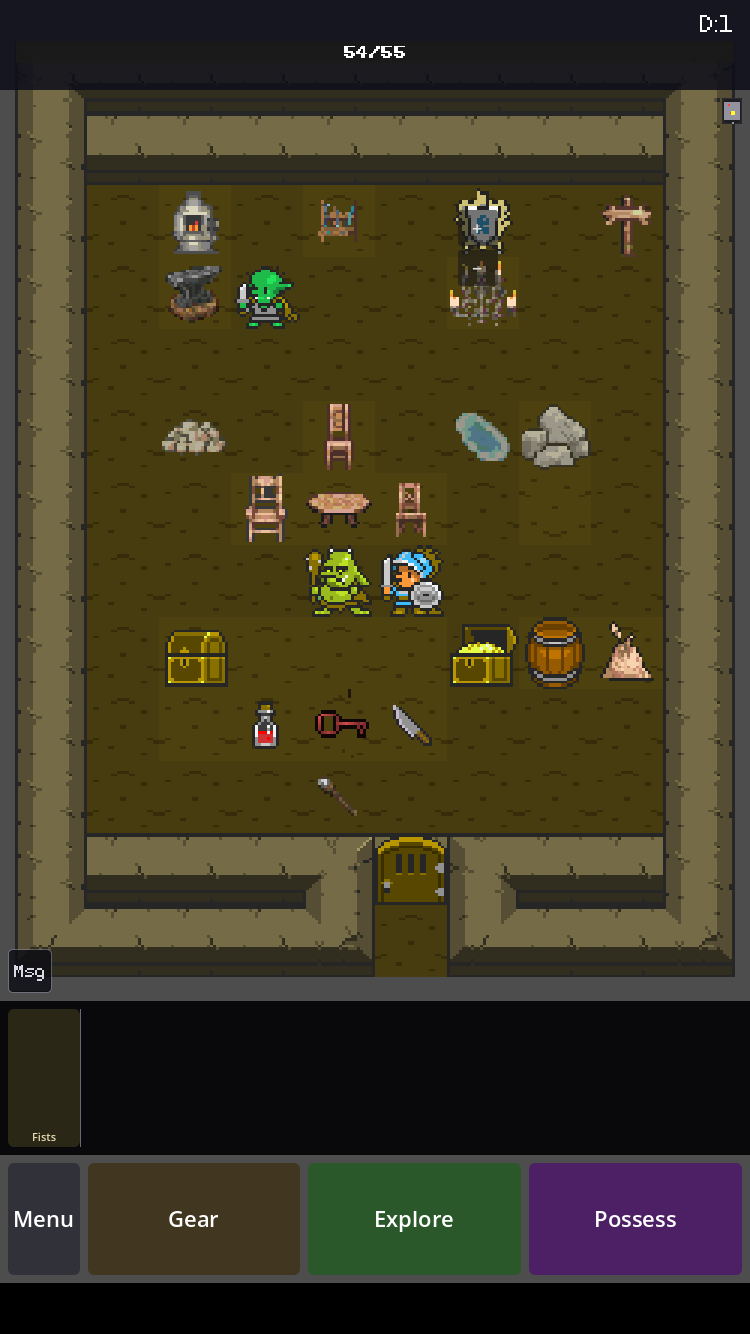
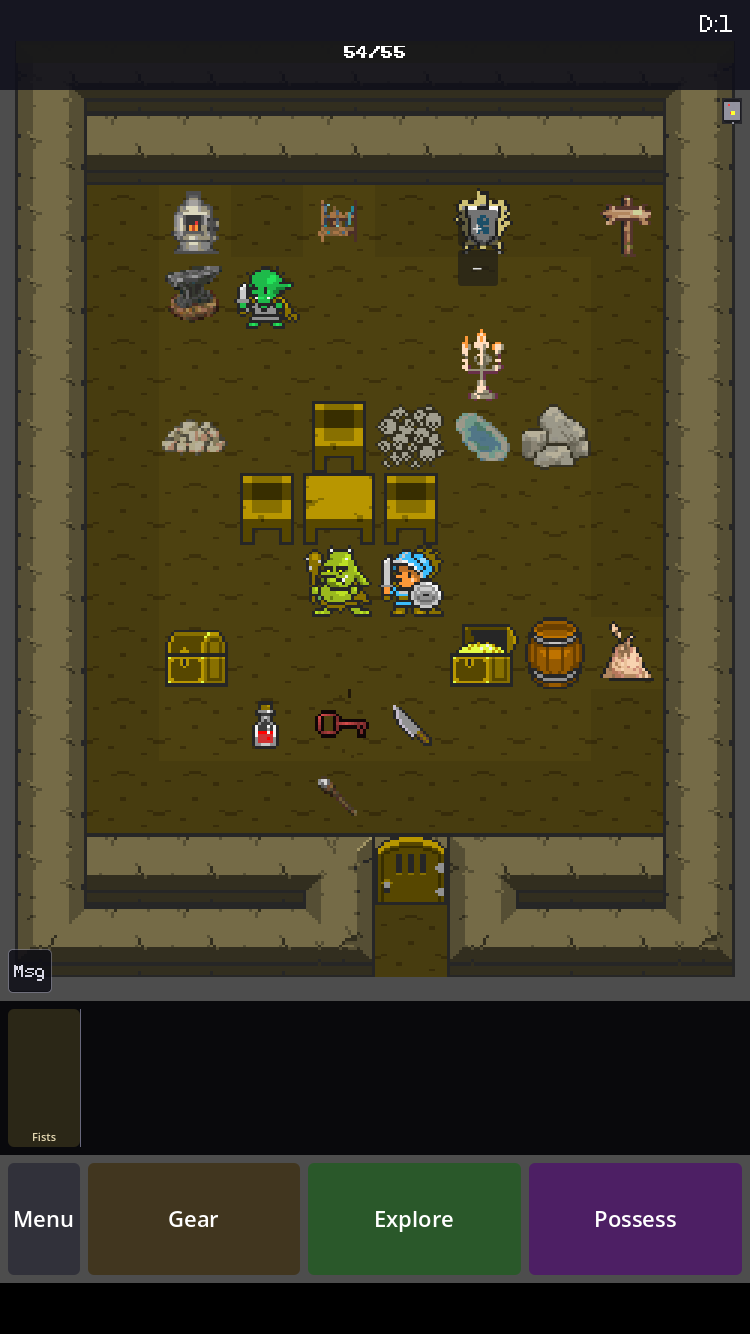
feat(art): Part A — canon furniture substitution (register correction, play review 2026-08)
Play review ruled the style register: Shattered-Pixel/Oryx school — chunky, low-detail, bold-read.
The generated-art failure mode is REFINEMENT (too fine), which Part A lint doesn't catch. This
lands the known furniture cases by canon substitution.

Landed (pixel-match verified, all lint PASS):
- Chairs 5051/5056/5057 ← canon world tile 321 (canon repetition IS the convention). Gate-rejection
  notes closed "resolved: canon substitution". route=canon_substitution.
- Table 5053 ← canon world tile 319. Deferred table gate verdict closed the same way.
- Acceptance scene table tile pinned 5052→5053 so the canon table shows in-frame beside the canon
  chairs (register now coherent); test updated. 5052/5054/5055 stay generated → Part B sweep.

Armor stand (5002) — derived, NOT landed (pending Rafe review):
- Rebuilt from canon weapon-stand 323's actual frame (posts/crossbar/rack/legs) with the sword
  removed and a simple chunky helm+cuirass mounted, colours strictly from 323's master-palette
  ramp. Script: tools/art_lint/derive_armor_stand.py. Candidate lints PASS (6 colours, A6 0.98) at
  tools/art_lint/candidates/burndown3/armor_stand_derived/. NO canon pixels fed to any generator.
- Manifest: accepted-as-is REVOKED, route=canon_derived, pending_review_note set; live 5002 pixels
  UNCHANGED pending your review of the derived result.

New-concept wiring: docs/furniture_wiring_proposal.md (for issue #51). Key finding: 317/318 (book-
[…]

Changed region(s): [[0.3067, 0.2766, 0.5827, 0.4303], [0.5827, 0.1844, 0.7053, 0.3073]]

diff --git a/tools/art_lint/derive_armor_stand.py b/tools/art_lint/derive_armor_stand.py
@@ -1,0 +1,104 @@
+#!/usr/bin/env python3
+"""Derive an armor_stand (5002 replacement) from canon weapon-stand 323's construction.
+
+Register ruling (play review 2026-08): chunky, low-detail, bold-read — the opposite of the
+current 5002 (a noisy, over-rivetted cuirass). This takes 323's ACTUAL post/crossbar/leg/rack
+pixels (the stand frame), removes the mounted sword, and mounts a simple helm + cuirass in the
+same register, using only colours already present in 323 (all master-palette members, canon-
+derived). No canon pixels are ever sent to any generator — this is local pixel composition of art
+already licensed in this game.
+
+Colours borrowed from 323: A dark outline, B wood, C/D/E/F greys. Metal = the C/D/E ramp.
+"""
+import os
+import sys
+
+from PIL import Image
+
+REPO = os.path.dirname(os.path.dirname(os.path.dirname(os.path.abspath(__file__))))
+os.chdir(REPO)
+sys.path.insert(0, os.path.join(REPO, "tools/art_lint"))
+import art_lint
+
+W = "src/Presentation/assets/sprites_16bf/world_24x24"
+
+# Colours read out of canon 323 (all confirmed master-palette members).
+A = (38, 38, 38)      # dark outline
+B = (87, 71, 0)       # wood
+C = (71, 71, 71)      # metal shadow
+D = (145, 145, 145)   # metal mid
+E = (201, 201, 201)   # metal highlight
+
+TRANSPARENT = (0, 0, 0, 0)
+
+
+def main():
+    im = Image.open(f"{W}/oryx_16bit_fantasy_world_323.png").convert("RGBA")
+    px = im.load()
+
+    # ── 1. Strip the sword ────────────────────────────────────────────────
+    # Hilt + guard + upper blade (rows 0-6, centre cols 8-15) and the blade tip that runs
+    # down the centre through the frame (row 12 cols 11-12; rows 16-20 cols 9-13).
+    for y in range(0, 7):
+        for x in range(8, 16):
+            px[x, y] = TRANSPARENT
+    for x in range(11, 13):
+        px[x, 12] = TRANSPARENT
+    for y in range(16, 21):
+        for x in range(9, 14):
+            px[x, y] = TRANSPARENT
+    for x in range(10, 12):        # row-21 sword-base remnant between the legs
+        px[x, 21] = TRANSPARENT
+    # Heal the rack where the sword passed through it (row 7 centre outline, row 8 centre surface).
+    for x in range(11, 13):
+        px[x, 7] = (*A, 255)
+    for x in range(10, 14):
+        px[x, 8] = (*D, 255)
+
+    # ── 2. Mount the helm (great-helm dome) above the rack, where the hilt was ─────
+    def put(x, y, col):
+        if 0 <= x < 24 and 0 <= y < 24:
+            px[x, y] = (*col, 255)
+
+    helm = {
+        1: [(10, A), (11, A), (12, A), (13, A)],
+        2: [(9, A), (10, D), (11, E), (12, E), (13, D), (14, A)],
+        3: [(9, A), (10, D), (11, E), (12, E), (13, D), (14, A)],
+        4: [(9, A), (10, A), (11, A), (12, A), (13, A), (14, A)],   # visor slit (dark band)
+        5: [(9, A), (10, D), (11, D), (12, D), (13, D), (14, A)],
+        6: [(10, A), (11, C), (12, C), (13, A)],                    # neck
+    }
+    for y, cells in helm.items():
+        for x, col in cells:
+            put(x, y, col)
+
+    # ── 3. Mount the cuirass (breastplate) below the rack, over the wooden crossbar ─
+    # Hangs from the rack centre (rows 9-16). Chunky trapezoid, single centre ridge, thick
+    # outline. Sits in front of the frame; the legs/feet remain visible either side.
+    cuirass = {
+        9:  [(9, A), (10, A), (11, A), (12, A), (13, A), (14, A)],           # shoulders top
+        10: [(8, A), (9, D), (10, E), (11, E), (12, E), (13, E), (14, D), (15, A)],
+        11: [(8, A), (9, D), (10, E), (11, D), (12, D), (13, E), (14, D), (15, A)],  # centre ridge
+        12: [(8, A), (9, C), (10, D), (11, D), (12, D), (13, D), (14, C), (15, A)],
+        13: [(9, A), (10, D), (11, D), (12, D), (13, D), (14, A)],
+        14: [(9, A), (10, C), (11, D), (12, D), (13, C), (14, A)],
+        15: [(10, A), (11, C), (12, C), (13, A)],                            # waist
+    }
+    for y, cells in cuirass.items():
+        for x, col in cells:
+            put(x, y, col)
+
+    out = f"tools/art_lint/candidates/burndown3/armor_stand_derived/armor_stand_5002_derived.png"
+    os.makedirs(os.path.dirname(out), exist_ok=True)
+    im.save(out)
+
+    ps = art_lint.load_palette("config/art/oryx_master_palette.json")
+    l = art_lint.lint_file(out, "prop", ps)
+    print(f"derived -> {out}")
+    print(f"  lint {l['overall']}  A1={l['A1']}(off={l['A1_off_palette_colors']}) "
+          f"A2={l['A2']} A3={l['A3']} A4={l['A4_color_count']}/{l['A4']} "
+          f"A5={l['A5']} A6={l['A6_outline_fraction']}/{l['A6']}")
+
+
+if __name__ == "__main__":
+    main()

diff --git a/src/Logic/Core/ArtAcceptanceSceneBuilder.cs b/src/Logic/Core/ArtAcceptanceSceneBuilder.cs
@@ -177,7 +177,11 @@ public static class ArtAcceptanceSceneBuilder
             new("candelabra", X: 6, Y: 4, FootprintW: 1, FootprintH: 1, BlocksMovement: true,  TileId: 5080),
 
             // Center table + chairs — §3 "center".
-            new("table",      X: 4, Y: 6, FootprintW: 1, FootprintH: 1, BlocksMovement: true,  TileId: 5052),
+            // Table tile pinned to 5053 — the canon-substituted variant (canon world tile 319),
+            // so the scene shows the register-corrected table next to the canon chairs (5051/5056/
+            // 5057 ← canon 321). The other table variants (5052/5054/5055) are still generated and
+            // go through the Part B fineness sweep.
+            new("table",      X: 4, Y: 6, FootprintW: 1, FootprintH: 1, BlocksMovement: true,  TileId: 5053),
             new("chair",      X: 3, Y: 6, FootprintW: 1, FootprintH: 1, BlocksMovement: true,  TileId: 5051),
             new("chair",      X: 5, Y: 6, FootprintW: 1, FootprintH: 1, BlocksMovement: true,  TileId: 5056),
             new("chair",      X: 4, Y: 5, FootprintW: 1, FootprintH: 1, BlocksMovement: true,  TileId: 5057),

diff --git a/tests/Core/ArtAcceptanceSceneBuilderTests.cs b/tests/Core/ArtAcceptanceSceneBuilderTests.cs
@@ -50,7 +50,7 @@ public class ArtAcceptanceSceneBuilderTests
         var state = ArtAcceptanceSceneBuilder.Build(monsters, items, consumables);
 
         var tileIds = state.Props.Select(p => p.TileId).ToHashSet();
-        int[] required = { 5011, 5089, 5001, 5080, 5052, 5051, 5056, 5057, 5078, 5079, 5110, 268, 5102 };
+        int[] required = { 5011, 5089, 5001, 5080, 5053, 5051, 5056, 5057, 5078, 5079, 5110, 268, 5102 };
         foreach (var id in required)
             Assert.That(tileIds, Does.Contain(id), $"Missing required prop tile id {id}");
     }

diff --git a/docs/furniture_wiring_proposal.md b/docs/furniture_wiring_proposal.md
@@ -1,0 +1,66 @@
+# Canon furniture wiring proposal (for Rafe's ruling — issue #51)
+
+Context: the play-review register ruling (2026-08) confirmed canon world tiles 317–324 as a
+furniture cluster and substituted 319→table 5053, 321→chairs 5051/5056/5057. This doc proposes how
+the *remaining* cluster members should participate in generated floors. **No config is changed
+here** — this is a proposal only; the ruling is yours.
+
+## Correction to the task premise (flagging, not guessing)
+
+The task framed 317/318/322/323/324 as "new concepts needing props.yaml wiring." They are already
+wired as game-key tile variants:
+
+| game_key | current `tile_ids` | placed in a room recipe? |
+|---|---|---|
+| `bookshelf` | **[317, 318]** | **NO — placed in zero recipes** |
+| `throne` | [322] | yes — ThroneRoom |
+| `weapon_rack` | [323, 324] | yes — Armory |
+| `desk` | [5062, 5063, 5064] (generated) | yes — Library |
+| `table` | [5052, **5053**, 5054, 5055] | yes — Library, Kitchen |
+| `chair` | [5051, 5056, 5057] | yes — Library, Kitchen |
+| `armor_stand` | [5002] | yes — Armory |
+
+So the real gaps are narrower than "wire five new props." Two items need a decision; two are
+already done; one is a genuinely unwired canon tile.
+
+## 1. bookshelf (317 filled / 318 empty) — the real gap
+
+`bookshelf` is a fully-defined prop (game_key + both canon tiles) that **no room recipe ever
+places**, so bookshelves never appear in the game. A Library with no bookshelves is the odd
+result — its recipe currently is `table (Center) · chair · desk (WallAdjacent) · candelabra`.
+
+**Proposal:** add `bookshelf` to the **Library** recipe as `WallAdjacent`, count 1–3, probability
+~0.8 (a library should almost always have them). Suggested: keep `desk` too (a library has both).
+Optionally add `bookshelf` to **Storage** at low probability (~0.3) — books get stored.
+
+**Your explicit question — do shelf_bottles rooms want bookshelves?** Recommendation: **no.**
+`shelf_bottles` lives in the **Laboratory** recipe and reads as alembics/reagent bottles, a
+deliberately distinct concept from books. Mixing bookshelves into the Laboratory blurs the two
+room identities. Keep books = Library/Storage, bottles = Laboratory.
+
+## 2. spare table 320 (writing desk with paper + quill) — genuinely unwired
+
+Canon 320 is not referenced anywhere in props.yaml. It reads as a **writing desk** (loose sheet +
+quill on top), which matches the existing `desk` game_key's flavor ("A writing desk cluttered with
+old papers…") far better than the plain `table`.
+
+**Proposal:** add `320` as a canon variant of the **`desk`** game_key
+(`tile_ids: [5062, 5063, 5064, 320]`). This drops a bold canon desk into the Library's existing
+desk slot with no recipe change. (Alternative if you'd rather not mix canon into a
+mostly-generated key: leave 320 unwired for now — it's low-value on its own.)
+
+## 3. throne 322 & weapon stands 323/324 — already done, no action
+
+Both are wired and placed (ThroneRoom, Armory). Noting them only so the cluster is fully accounted
+for. If anything, the *generated* neighbours in those recipes (e.g. `armor_stand` 5002, pending its
+canon-derived replacement) are the ones to watch — that's the Part B fineness sweep's job, not this
+doc's.
+
+## Summary of what a "yes" would change (config only — RoomPropPlacer recipes + props.yaml)
+
+- Library recipe: `+ bookshelf (WallAdjacent, 1–3, ~0.8)`.
+- (optional) Storage recipe: `+ bookshelf (WallAdjacent, 1–2, ~0.3)`.
+- `desk` game_key: `tile_ids += 320`.
+- Nothing for throne / weapon_rack (already wired + placed).
+
+None of these are made here — awaiting your ruling on #51.
